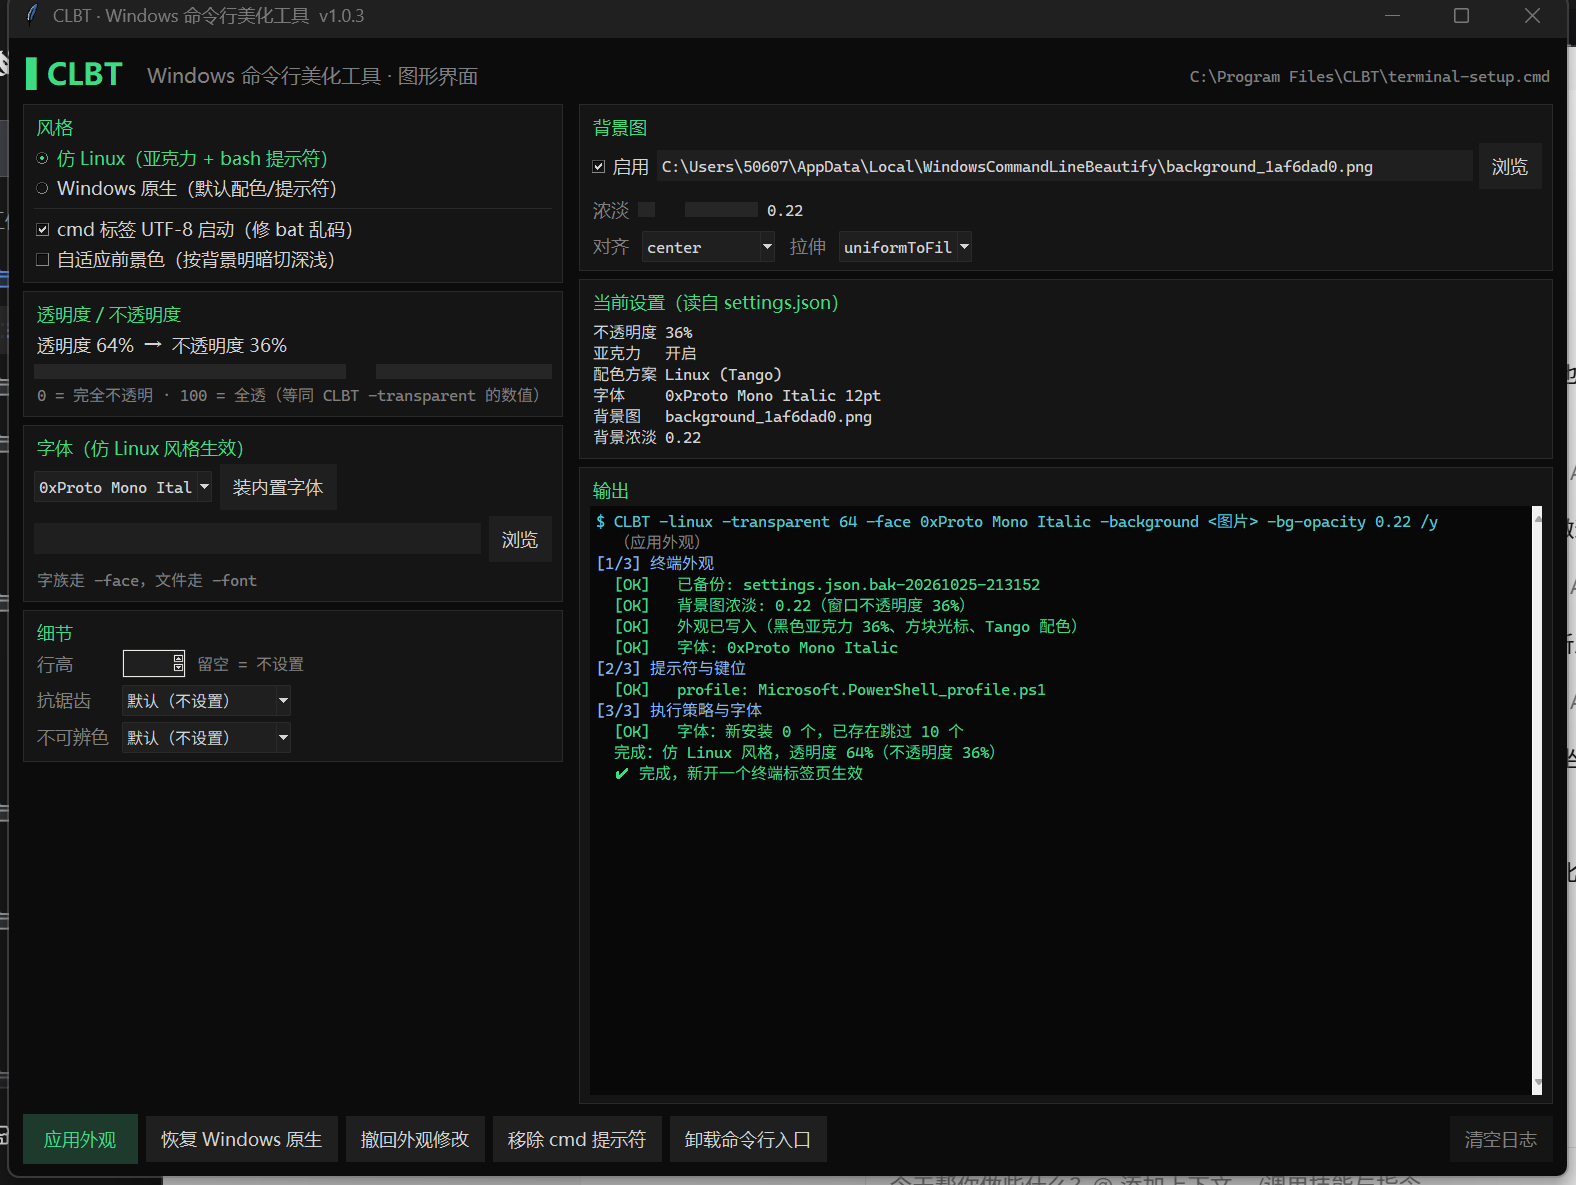
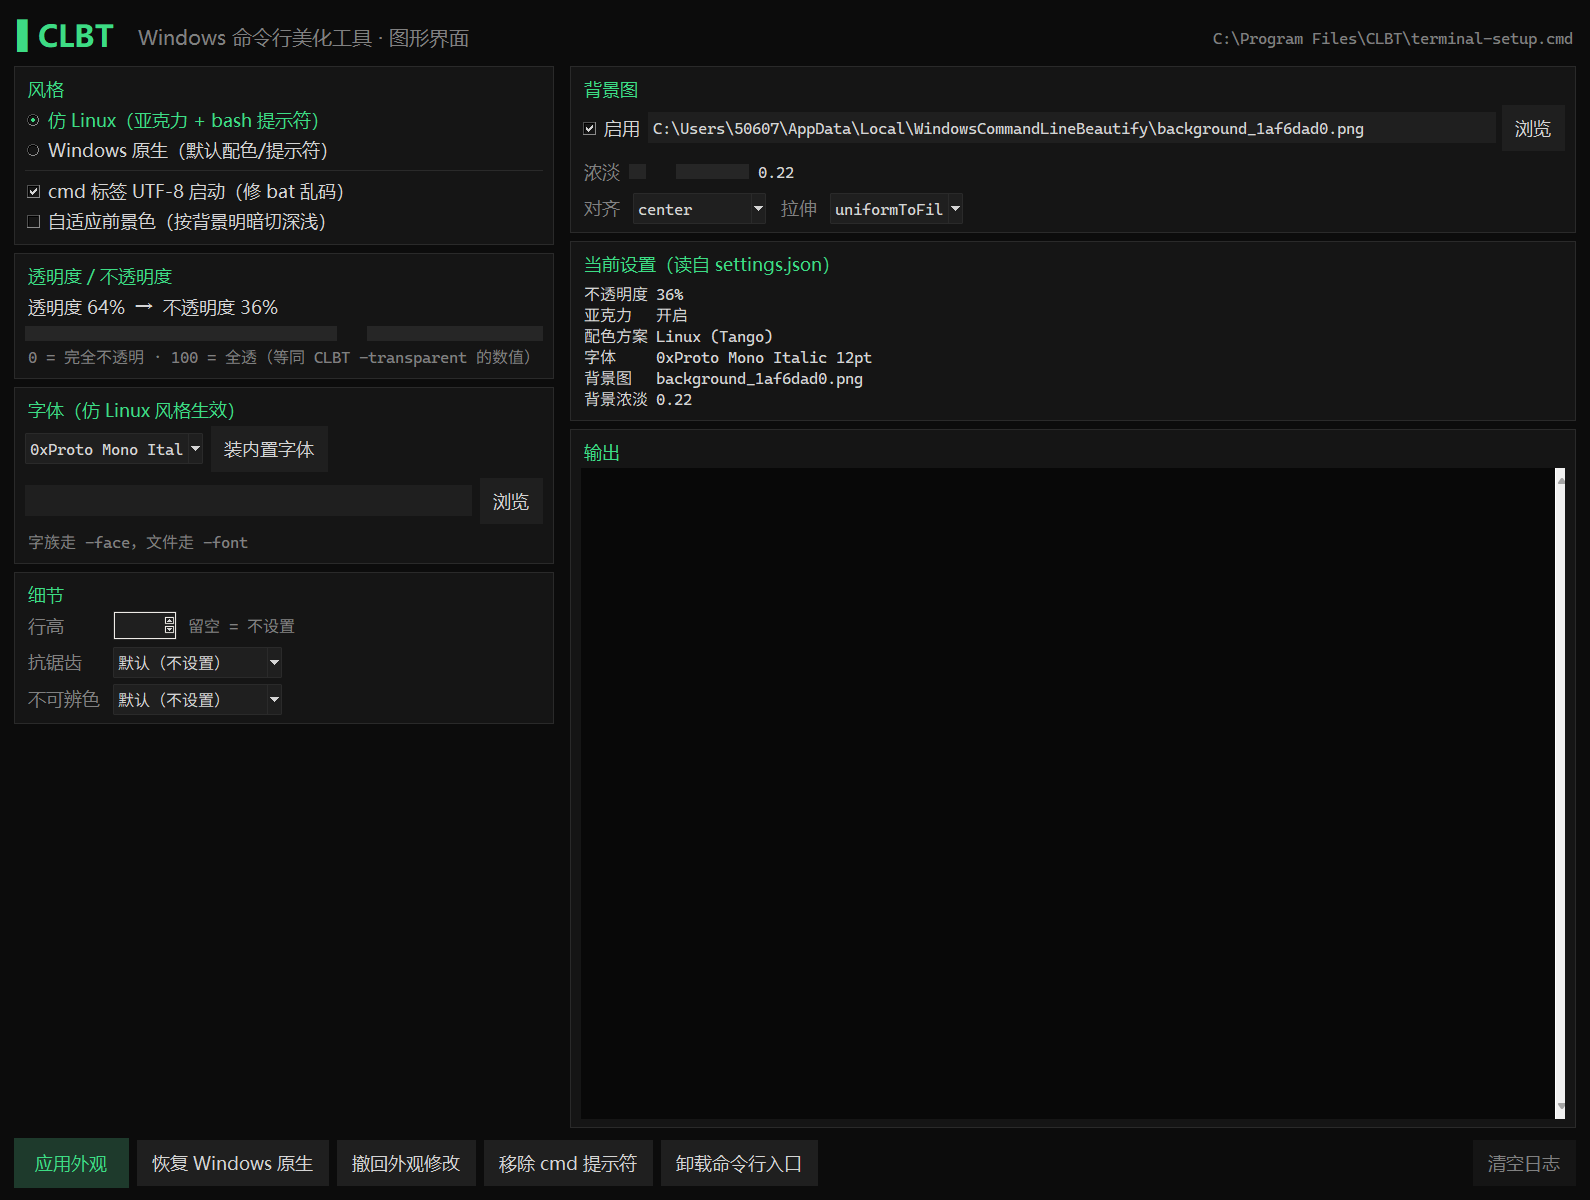
feat(v1.0.4): 图形界面进包（CLBT-GUI.exe + CLBT -gui）

diff --git a/clbt_gui.py b/clbt_gui.py
@@ -26,7 +26,7 @@ import tkinter as tk
 from tkinter import filedialog, messagebox, ttk
 
 APP_TITLE = "CLBT · Windows 命令行美化工具"
-VERSION = "1.0.3"
+VERSION = "1.0.4"
 
 # ---- 配色（跟终端黑玻璃一个调子）----
 BG = "#0C0C0C"
@@ -166,6 +166,36 @@ def set_dpi_aware():
             pass
 
 
+def window_scale(root):
+    """当前显示器缩放（1.0 = 100%）。
+    优先问 GetDpiForMonitor（窗口还没显示时也能拿到正确值），
+    因为 per-monitor 感知的进程里 Tk 从 GetDeviceCaps 拿到的始终是 96。"""
+    try:
+        import ctypes
+        from ctypes import wintypes
+        MONITOR_DEFAULTTOPRIMARY = 1
+        mon = ctypes.windll.user32.MonitorFromPoint(wintypes.POINT(0, 0), MONITOR_DEFAULTTOPRIMARY)
+        dx, dy = ctypes.c_uint(), ctypes.c_uint()
+        ctypes.windll.shcore.GetDpiForMonitor(mon, 0, ctypes.byref(dx), ctypes.byref(dy))
+        if dx.value:
+            return dx.value / 96.0, float(dx.value)
+    except Exception:
+        pass
+    try:
+        import ctypes
+        hwnd = ctypes.windll.user32.GetParent(root.winfo_id()) or root.winfo_id()
+        dpi = ctypes.windll.user32.GetDpiForWindow(hwnd)
+        if dpi and dpi != 96:
+            return dpi / 96.0, float(dpi)
+    except Exception:
+        pass
+    try:
+        dpi = root.winfo_fpixels("1i")
+        return dpi / 96.0, dpi
+    except Exception:
+        return 1.0, 96.0
+
+
 class App:
     def __init__(self, root):
         self.root = root
@@ -176,10 +206,11 @@ class App:
 
         root.title(f"{APP_TITLE}  v{VERSION}")
         root.configure(bg=BG)
+        self.dpi, dpi_px = window_scale(root)
         try:
-            self.dpi = max(1.0, root.winfo_fpixels("1i") / 96.0)
+            root.tk.call("tk", "scaling", dpi_px / 72.0)
         except Exception:
-            self.dpi = 1.0
+            pass
         root.geometry(f"{int(1060 * self.dpi)}x{int(800 * self.dpi)}")
         root.minsize(int(1000 * self.dpi), int(740 * self.dpi))
 
@@ -189,8 +220,8 @@ class App:
         self._refresh_status()
         # 按内容自适应窗口大小，避免控件被裁掉；再给自己的下限
         self.root.update_idletasks()
-        w = max(int(1040 * self.dpi), self.root.winfo_reqwidth() + 10)
-        h = max(int(760 * self.dpi), self.root.winfo_reqheight() + 10)
+        w = max(int(1060 * self.dpi), self.root.winfo_reqwidth() + 10)
+        h = max(int(800 * self.dpi), self.root.winfo_reqheight() + 10)
         sw, sh = self.root.winfo_screenwidth(), self.root.winfo_screenheight()
         self.root.geometry(f"{min(w, sw - 40)}x{min(h, sh - 80)}")
         self.root.after(60, self._drain)
@@ -705,52 +736,56 @@ def selftest():
     return 0
 
 
+def diag(path):
+    """把 DPI / 环境诊断写到文件（--noconsole 打包后看不到 stdout，调试用）"""
+    import ctypes
+    lines = []
+    try:
+        r = ctypes.windll.shcore.SetProcessDpiAwareness(2)
+        lines.append(f"SetProcessDpiAwareness(2) -> {r}")
+    except Exception as e:
+        lines.append(f"SetProcessDpiAwareness err: {e}")
+    try:
+        aw = ctypes.c_int()
+        ctypes.windll.shcore.GetProcessDpiAwareness(None, ctypes.byref(aw))
+        lines.append(f"process awareness = {aw.value} (0=unaware 1=system 2=permonitor)")
+    except Exception as e:
+        lines.append(f"GetProcessDpiAwareness err: {e}")
+    try:
+        from ctypes import wintypes
+        mon = ctypes.windll.user32.MonitorFromPoint(wintypes.POINT(0, 0), 1)
+        dx, dy = ctypes.c_uint(), ctypes.c_uint()
+        r = ctypes.windll.shcore.GetDpiForMonitor(mon, 0, ctypes.byref(dx), ctypes.byref(dy))
+        lines.append(f"GetDpiForMonitor -> {r} {dx.value}x{dy.value}")
+    except Exception as e:
+        lines.append(f"GetDpiForMonitor err: {e}")
+    try:
+        lines.append(f"GetDpiForSystem = {ctypes.windll.user32.GetDpiForSystem()}")
+    except Exception as e:
+        lines.append(f"GetDpiForSystem err: {e}")
+    root = tk.Tk()
+    try:
+        lines.append(f"window_scale(root) = {window_scale(root)}")
+    except Exception as e:
+        lines.append(f"window_scale err: {e!r}")
+    lines.append(f"winfo_fpixels(1i) = {root.winfo_fpixels('1i'):.2f}")
+    lines.append(f"tk screen = {root.winfo_screenwidth()}x{root.winfo_screenheight()}")
+    root.destroy()
+    with open(path, "w", encoding="utf-8") as f:
+        f.write("\n".join(lines) + "\n")
+    return 0
+
+
 def main():
+    if "--diag" in sys.argv:
+        set_dpi_aware()
+        return diag(sys.argv[sys.argv.index("--diag") + 1])
     if "--selftest" in sys.argv:
         return selftest()
 
     set_dpi_aware()
     root = tk.Tk()
     app = App(root)
-
-    # 调试用：--shot <png> 把自己的窗口截图后退出（这条路径才需要 Pillow）
-    if "--shot" in sys.argv:
-        path = sys.argv[sys.argv.index("--shot") + 1]
-        root.attributes("-topmost", True)
-        root.lift()
-        # 塞一段真实运行输出，截图里能看到日志区的样子
-        for line, tag in (
-            ("$ CLBT -linux -transparent 64 -face 0xProto Mono Italic -background <图片> -bg-opacity 0.22 /y", "cmd"),
-            ("  （应用外观）", "dim"),
-            ("[1/3] 终端外观", "title"),
-            ("  [OK]   已备份: settings.json.bak-20261025-213152", "ok"),
-            ("  [OK]   背景图浓淡: 0.22（窗口不透明度 36%）", "ok"),
-            ("  [OK]   外观已写入（黑色亚克力 36%、方块光标、Tango 配色）", "ok"),
-            ("  [OK]   字体: 0xProto Mono Italic", "ok"),
-            ("[2/3] 提示符与键位", "title"),
-            ("  [OK]   profile: Microsoft.PowerShell_profile.ps1", "ok"),
-            ("[3/3] 执行策略与字体", "title"),
-            ("  [OK]   字体：新安装 0 个，已存在跳过 10 个", "ok"),
-            ("  完成：仿 Linux 风格，透明度 64%（不透明度 36%）", "ok"),
-            ("  ✔ 完成，新开一个终端标签页生效", "ok"),
-        ):
-            app.log(line, tag)
-
-        def grab():
-            try:
-                from PIL import ImageGrab
-                root.update_idletasks()
-                x, y = root.winfo_rootx(), root.winfo_rooty()
-                w, h = root.winfo_width(), root.winfo_height()
-                x0, y0 = max(0, x - 9), max(0, y - 38)
-                ImageGrab.grab(bbox=(x0, y0, x + w + 9, y + h + 9), all_screens=True).save(path)
-                print("saved", path, w, h)
-            except Exception as e:  # noqa: BLE001
-                print("shot failed:", e)
-            app.q.put(("done", 0))
-            root.destroy()
-
-        root.after(1600, grab)
 
     root.mainloop()
     return 0

diff --git a/install.py b/install.py
@@ -45,6 +45,7 @@ if getattr(sys, "frozen", False):
 else:
     HERE = os.path.dirname(os.path.abspath(__file__))
 TOOL_NAME = "terminal-setup.cmd"
+GUI_NAME = "CLBT-GUI.exe"
 CLBT_NAME = "CLBT.cmd"
 
 # 默认安装目录：C:\Program Files\CLBT（跟其它 Windows 程序放一起）
@@ -269,6 +270,16 @@ def bundled_tool_path():
     return os.path.join(HERE, TOOL_NAME), False
 
 
+def bundled_gui_path():
+    """返回安装器里带的图形界面 exe（没带则返回不存在路径）"""
+    meipass = getattr(sys, "_MEIPASS", None)
+    if meipass:
+        p = os.path.join(meipass, GUI_NAME)
+        if os.path.isfile(p):
+            return p
+    return os.path.join(HERE, GUI_NAME)
+
+
 def ensure_crlf(path):
     """把批处理文件的行尾规范成 CRLF。
     LF 行尾会让 cmd 把内嵌的 PowerShell 正文当成命令执行，
@@ -291,7 +302,7 @@ def ensure_crlf(path):
 def remove_tool_files(directory, verbose=True):
     """删掉某目录里的 CLBT.cmd / terminal-setup.cmd（及其 .bak 备份）"""
     removed = []
-    for name in (CLBT_NAME, TOOL_NAME):
+    for name in (CLBT_NAME, TOOL_NAME, GUI_NAME):
         p = os.path.join(directory, name)
         for f in [p] + glob.glob(p + ".bak*"):
             if os.path.isfile(f):
@@ -374,6 +385,19 @@ def do_install(target_dir, do_encoding=True, keep_old=False):
         how = "从安装器内释放" if embedded else "已复制"
         say(f"    {how}: {dst_tool}  ({src_size / 1048576:.2f} MB)")
 
+    # 图形界面（install.exe 里带了就一起装）
+    gui_src = bundled_gui_path()
+    if os.path.isfile(gui_src):
+        gui_dst = os.path.join(target_dir, GUI_NAME)
+        try:
+            if os.path.isfile(gui_dst) and os.path.getsize(gui_dst) == os.path.getsize(gui_src):
+                say(f"    图形界面已是最新，跳过: {gui_dst}")
+            else:
+                shutil.copy2(gui_src, gui_dst)
+                say(f"    图形界面: {gui_dst}  ({os.path.getsize(gui_src) / 1048576:.2f} MB)")
+        except Exception as e:
+            say(f"    [!] 图形界面写入失败: {e}")
+
     # 行尾自检：LF 会让 cmd 误执行内嵌脚本
     if ensure_crlf(dst_tool):
         say("    已修正行尾为 CRLF（原文件是 LF，会导致 cmd 报一堆「不是内部或外部命令」）")
@@ -443,6 +467,7 @@ def do_install(target_dir, do_encoding=True, keep_old=False):
     say("    CLBT -win")
     say("    CLBT -transparent 50 -linux")
     say()
+    say("图形界面：双击 " + os.path.join(target_dir, GUI_NAME) + "　或命令行输入 CLBT -gui")
     say(f"卸载：{os.path.basename(sys.executable)} --uninstall")
     return 0
 

diff --git a/make_dist.py b/make_dist.py
@@ -13,13 +13,14 @@ README = """CLBT —— Windows 命令行美化工具
 
 安装：
   1. 双击 install.exe（会弹一次 UAC，因为默认装到 C:\\Program Files\\CLBT）
-  2. 它会自动写出 terminal-setup.cmd、生成 CLBT.cmd、并把该目录加入用户 PATH
+  2. 它会写出 terminal-setup.cmd、CLBT.cmd、CLBT-GUI.exe（图形界面），并把该目录加入 PATH
      想装到别处、不要管理员权限：install.exe --dir D:\\Tools\\CLBT
   3. 重新打开终端（重要，PATH 才会生效）
   4. 输入  CLBT -help  查看用法
 
 常用命令：
   CLBT                              交互式菜单
+  CLBT -gui                         打开图形界面（等价于双击 CLBT-GUI.exe）
   CLBT -linux                       仿 Linux：黑色亚克力 + bash 提示符
   CLBT -win                         Windows 原生风格
   CLBT -transparent 36              透明度 36%（即不透明度 64%）

diff --git a/README.md b/README.md
@@ -24,12 +24,13 @@
    想装到别处（不需要管理员）：`install.exe --dir D:\Tools\CLBT`
 3. 重新打开终端，输入 `CLBT -help`
 
-安装器会做四件事：
+安装器会做这几件事：
 
 | 动作 | 说明 |
 |---|---|
 | 释放工具本体 | 写出 `C:\Program Files\CLBT\terminal-setup.cmd`（33 MB，内含字体） |
 | 生成入口命令 | 写出 `C:\Program Files\CLBT\CLBT.cmd` |
+| 装上图形界面 | 写出 `C:\Program Files\CLBT\CLBT-GUI.exe`（11 MB，双击即可用） |
 | 加入用户 PATH | 只写 `HKCU`，不影响系统 PATH，重复运行不产生重复项 |
 | 开启 UTF-8 | 把 Terminal 里 cmd 标签的 commandline 改成 `cmd.exe /k chcp 65001 >nul` |
 
@@ -63,6 +64,8 @@ CLBT -bg-align topLeft                 对齐：center/top/bottom/left/right/top
 CLBT -bg-stretch uniform               拉伸：uniformToFill/fill/uniform/none
 
 CLBT -font "D:\fonts\my.ttf"           安装并使用指定字体（文件或目录）
+CLBT -face "0xProto Nerd Font Mono"     直接用已安装的字族（不用传文件路径）
+CLBT -install-fonts                    只安装内置的 10 个字体，不改任何设置
 CLBT -cell-height 1.2                  行高 0.8–2.0
 CLBT -antialiasing grayscale           抗锯齿：grayscale/cleartype/aliased
 CLBT -adjust-colors always             不可辨颜色修正：always/indexed/never
@@ -71,6 +74,7 @@ CLBT -adaptive                         开启自适应前景色
 CLBT -adaptive off                     关闭
 CLBT -encoding on|off                  让 cmd 标签以 UTF-8 启动（消除 bat 乱码）
 
+CLBT -gui                              打开图形界面（等价双击 CLBT-GUI.exe）
 CLBT -uninstall                        撤回对命令行的全部修改
 CLBT -help                             显示帮助
 ```
@@ -94,6 +98,14 @@ CLBT -help                             显示帮助
 
 不想敲参数就开图形界面：
 
+**已经装好的人**直接双击 `C:\Program Files\CLBT\CLBT-GUI.exe`，或者在终端里：
+
+```bat
+CLBT -gui
+```
+
+**从源码跑**：
+
 ```bat
 python clbt_gui.py
 ```
@@ -108,6 +120,7 @@ python clbt_gui.py
   `-face` 或字体文件 `-font`）、行高、抗锯齿、不可辨色、UTF-8 编码、自适应前景色，
   以及「恢复 Windows 原生 / 撤回外观修改 / 移除 cmd 提示符 / 卸载命令行入口」
 - `python clbt_gui.py --selftest` 只打印将要执行的命令，不开窗口
+- 打包 exe 时用 `--manifest gui.manifest`（per-monitor DPI 感知），125% / 150% 缩放下不发虚
 
 ## 它会修改什么（透明披露）
 

diff --git a/CHANGELOG.md b/CHANGELOG.md
@@ -1,5 +1,19 @@
 # 更新日志
 
+## v1.0.4
+
+### 图形界面进入发布包
+- `install.exe` 现在同时释放三件东西到 `C:\Program Files\CLBT`：
+  `terminal-setup.cmd`（本体）、`CLBT.cmd`（入口）、**`CLBT-GUI.exe`**（11 MB，双击即用，不需要 Python）
+- 新增 `CLBT -gui`：直接打开图形界面
+- `install.exe --uninstall` 会把 GUI 一起清掉
+- 分发包 `CLBT.zip` 从 25 MB 变成 36 MB，但仍只有一个附件、一个安装器
+
+### 打包细节
+- GUI 用 `--manifest gui.manifest` 声明 per-monitor DPI 感知；再按 `GetDpiForMonitor` 自行缩放，
+  125% / 150% 缩放下窗口尺寸和字号都正确（原先会偏小）
+- GUI 的界面尺寸按内容自适应，最小 1060×800，超出屏幕时按屏幕收窄
+
 ## v1.0.3
 
 ### 新增
